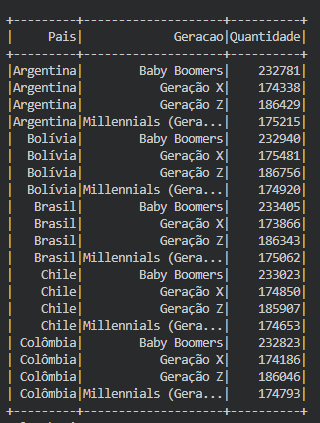
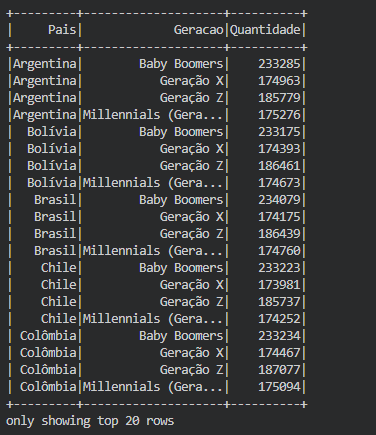
pequenas correções no exercicio de Spark

diff --git a/Sprint 8/Exercicios/Exercicio-Spark/Script-spark.py b/Sprint 8/Exercicios/Exercicio-Spark/Script-spark.py
@@ -56,6 +56,7 @@ df_nomes = df_nomes.withColumn("AnoNascimento",
 
 df_select = df_nomes.filter(df_nomes["AnoNascimento"] >= 2000).select("Nomes", "Escolaridade", "Pais", "AnoNascimento")
 
+df_select.show(100)
 
 # ETAPA 7
 
@@ -105,7 +106,9 @@ df_geracao = spark.sql("""
                 COUNT(*) AS Quantidade
             FROM pessoas
             GROUP BY Pais, Geracao
-            ORDER BY Pais, Geracao, Quantidade
                     """)
+
+
+df_geracao = df_geracao.orderBy("Pais", "Geracao", "Quantidade")
 
 df_geracao.show()

diff --git a/Sprint 8/README.md b/Sprint 8/README.md
@@ -63,7 +63,7 @@ Utilizo algo parecido com a etapa anterior apenas alterando os valores que devem
 
 ![alt text](/Sprint%208/Evidencias/image-4.png)
 
-Utilizo essa conta matematica para gerar as datas aleatoriamente
+Utilizo essa conta matematica para gerar as datas aleatoriamente, que funciona da seguinte maneira, o rand() gera um numero aleatorio entre 0 e 1 e multiplica pela quantidade de anos possiveis entre a data minima e maxima. após isso somo 1945 no resultado e arredondo para assim obter um ano aleatorio.
 
 ![resultado](/Sprint%208/Evidencias/Execução%20com%20coluna%20de%20ano%20-%20exercicio%20spark.png)
 
@@ -71,7 +71,7 @@ Utilizo essa conta matematica para gerar as datas aleatoriamente
 
 ![alt text](/Sprint%208/Evidencias/image-5.png)
 
-Utilizo um filter e logo após o select para filtre as pessoas que nasceram neste século
+Utilizo um filter e logo após o select para filtre as pessoas que nasceram neste século (nas primeiras tentativas tives problemas de utilizar as funções pois o select deve ser utilizado após o filter)
 
 ![resultado](/Sprint%208/Evidencias/pessoas%20que%20nasceram%20neste%20seculo%20-%20exercicio%20spark.png)
 
@@ -103,7 +103,7 @@ Na etapa 9 deveria fazer o mesmo que na anterior, porem utilizando o Spark SQL
 
 ![alt text](/Sprint%208/Evidencias/image-9.png)
 
-Na etapa 10, deveria utilizar o sparkSQL para obter a quantidade que cada pais tem de cada uma das gerações, para isso fiz uma consulta SQL que ja ordenava e agrupava, e em seguida armazenei para um novo dataset e utilizei o metodo show para mostrar o resultado
+Na etapa 10, deveria utilizar o sparkSQL para obter a quantidade que cada pais tem de cada uma das gerações, para isso fiz uma consulta SQL que ja agrupava, e em seguida armazenei para um novo dataset e utilizei a função orderBy para agrupar conforme foi pedido no exercicio, e logo após utilizei o show para obter o resultado a seguir:
 
 ![resultado](/Sprint%208/Evidencias/Resultado%20ultima%20query%20-%20exercicio%20Spark.png)
 
